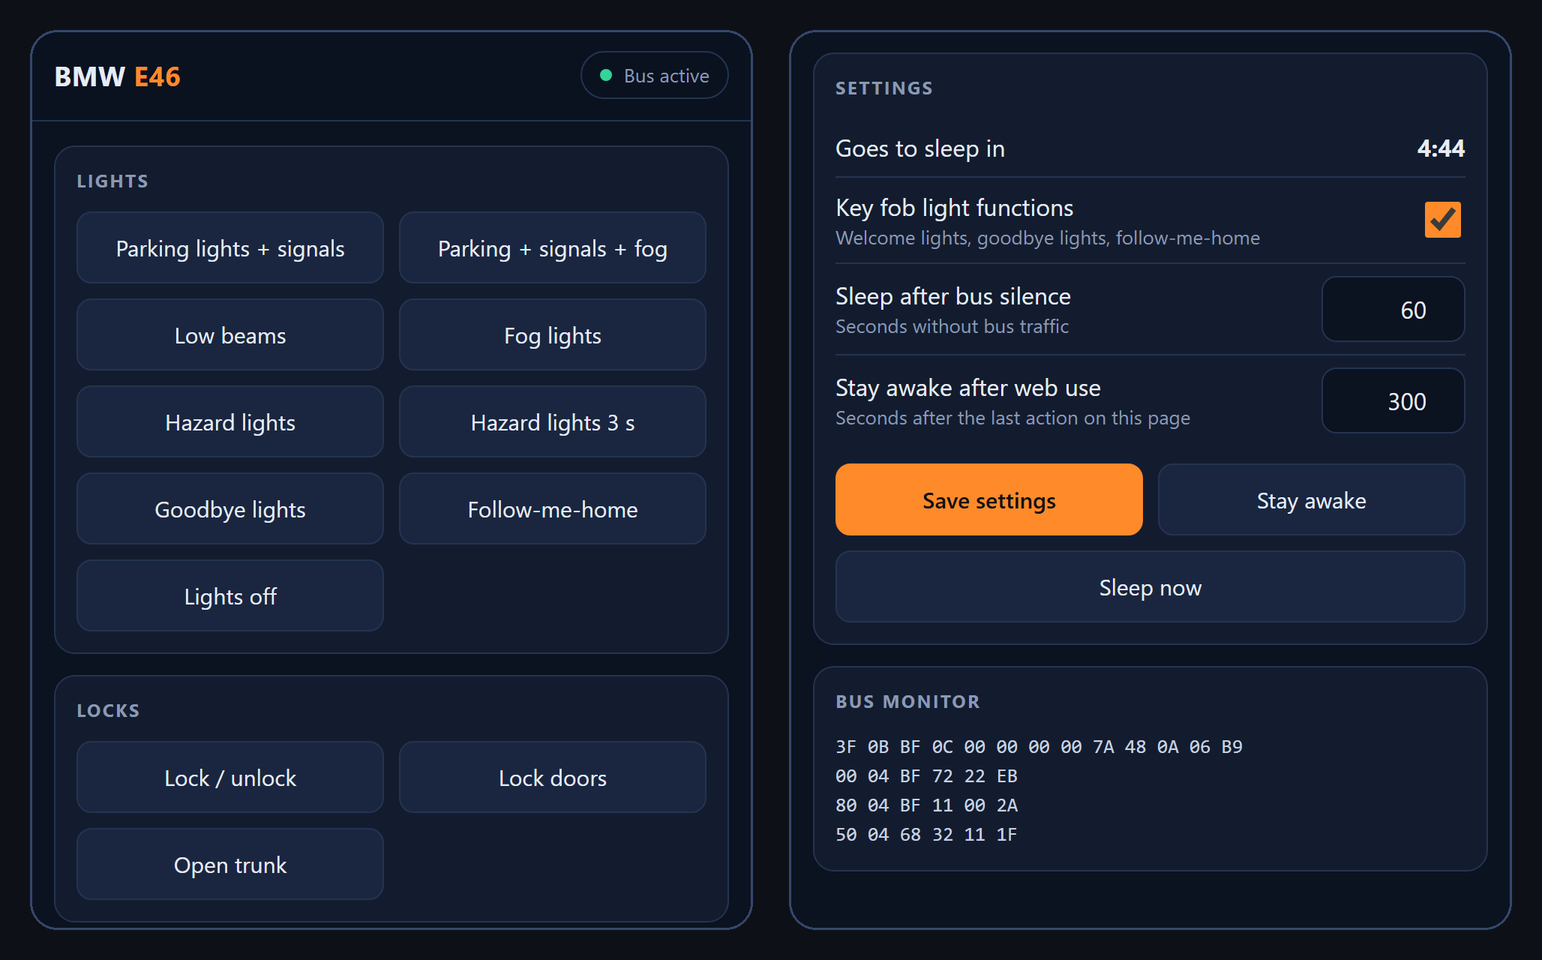
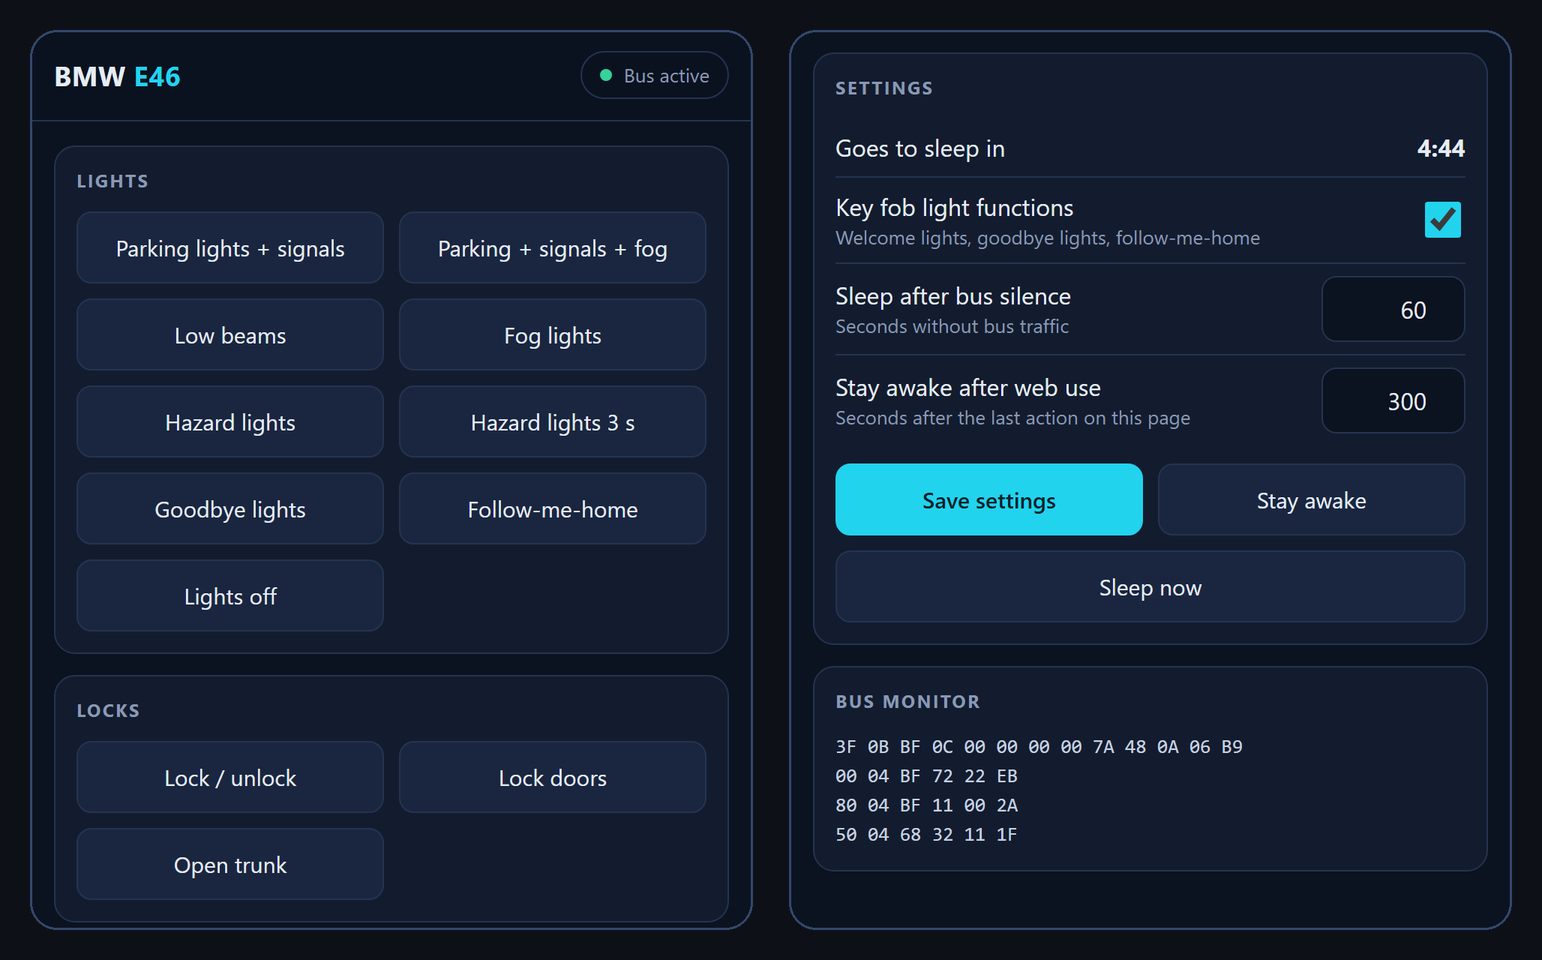
Focus the project on phone control and switch the colours to cyan
- New banner: a phone switching on the car's lights over Wi-Fi
- README leads with the ESP32 web interface; the key fob functions are
  described as the Arduino Nano version
- Web interface accent colour changed to cyan

Changed region(s): [[0.5292, 0.4688, 0.7471, 0.5625], [0.9027, 0.1875, 0.965, 0.25], [0.0623, 0.0625, 0.1245, 0.0938]]

diff --git a/Codes/E46_KBus_ESP32/WebPage.h b/Codes/E46_KBus_ESP32/WebPage.h
@@ -16,7 +16,7 @@ const char WEB_PAGE[] PROGMEM = R"rawliteral(<!doctype html>
 <meta name="theme-color" content="#0b1220">
 <title>BMW E46</title>
 <style>
-:root{--bg:#0b1220;--card:#131c2e;--line:#243450;--text:#e6ecf5;--muted:#8a99b3;--accent:#ff8a2a;--ok:#34d399;--bad:#fb7185}
+:root{--bg:#0b1220;--card:#131c2e;--line:#243450;--text:#e6ecf5;--muted:#8a99b3;--accent:#22d3ee;--ok:#34d399;--bad:#fb7185}
 *{box-sizing:border-box}
 body{margin:0;background:var(--bg);color:var(--text);font:16px/1.4 -apple-system,BlinkMacSystemFont,"Segoe UI",Roboto,Arial,sans-serif;-webkit-tap-highlight-color:transparent}
 header{position:sticky;top:0;z-index:2;display:flex;align-items:center;justify-content:space-between;gap:12px;padding:14px 16px;background:rgba(11,18,32,.94);border-bottom:1px solid var(--line)}
@@ -31,9 +31,9 @@ section{background:var(--card);border:1px solid var(--line);border-radius:14px;p
 h2{margin:0 0 12px;font-size:12px;letter-spacing:.1em;text-transform:uppercase;color:var(--muted)}
 .grid{display:grid;grid-template-columns:repeat(auto-fill,minmax(150px,1fr));gap:10px}
 button{min-height:48px;padding:10px 12px;border:1px solid var(--line);border-radius:10px;background:#1a2640;color:var(--text);font:inherit;font-size:15px;cursor:pointer}
-button:active{background:var(--accent);border-color:var(--accent);color:#111}
+button:active{background:var(--accent);border-color:var(--accent);color:#06222a}
 button:disabled{opacity:.5}
-button.primary{background:var(--accent);border-color:var(--accent);color:#111;font-weight:600}
+button.primary{background:var(--accent);border-color:var(--accent);color:#06222a;font-weight:600}
 .row{display:flex;align-items:center;justify-content:space-between;gap:12px;padding:8px 0}
 .row+.row{border-top:1px solid var(--line)}
 .row small{display:block;color:var(--muted);font-size:13px}

diff --git a/README.md b/README.md
@@ -1,13 +1,13 @@
 <div align="center">
 
-<img src="Pictures/bmw-ibus-kbus-firmware-banner.svg" alt="BMW I-Bus / K-Bus firmware — a car switching its lights on after a key fob press, next to a phone with the web control interface" width="100%">
+<img src="Pictures/bmw-ibus-kbus-firmware-banner.svg" alt="BMW I-Bus / K-Bus firmware — a phone with the web control interface switching on the lights of a car over Wi-Fi" width="100%">
 
-# BMW I-Bus / K-Bus Firmware for Arduino & ESP32
+# BMW I-Bus / K-Bus Firmware for ESP32 & Arduino
 
-**Welcome lights, follow-me-home and phone control for your classic BMW.**<br>
-Ready-to-flash firmware that listens to the remote key and drives the car's lights over the K-Bus — plus an ESP32 version with a web interface for lights, windows, locks and more. Includes transceiver schematics and wiring photos for the BMW E46.
+**Control your classic BMW from your phone.**<br>
+Ready-to-flash ESP32 firmware that puts the lights, windows, locks and trunk of your car on a web page — no app and no internet needed. An Arduino Nano version without Wi-Fi is included too. With transceiver schematics and wiring photos for the BMW E46.
 
-[![Stars](https://img.shields.io/github/stars/muki01/BMW_IBus_KBus?style=flat-square&logo=github&color=ff8a2a)](https://github.com/muki01/BMW_IBus_KBus/stargazers)
+[![Stars](https://img.shields.io/github/stars/muki01/BMW_IBus_KBus?style=flat-square&logo=github&color=22d3ee)](https://github.com/muki01/BMW_IBus_KBus/stargazers)
 [![Forks](https://img.shields.io/github/forks/muki01/BMW_IBus_KBus?style=flat-square&logo=github&color=38bdf8)](https://github.com/muki01/BMW_IBus_KBus/forks)
 [![Issues](https://img.shields.io/github/issues/muki01/BMW_IBus_KBus?style=flat-square)](https://github.com/muki01/BMW_IBus_KBus/issues)
 [![License: MIT](https://img.shields.io/github/license/muki01/BMW_IBus_KBus?style=flat-square)](LICENSE)
@@ -30,14 +30,14 @@ Ready-to-flash firmware that listens to the remote key and drives the car's ligh
 
 ## 🌟 What Is This?
 
-Classic BMWs link their body electronics over a single wire, the **K-Bus**. A small microcontroller on that wire can hear every key-fob press and tell the light module, the body module and the windows what to do.
+Classic BMWs link their body electronics over a single wire, the **K-Bus**. A small microcontroller on that wire can tell the light module, the body module and the windows what to do.
 
-This repository is the **firmware** side of that idea: complete sketches you upload, connect and use.
+This repository is the **firmware** side of that idea: complete sketches you upload, connect and use. The ESP32 version creates its own Wi-Fi network and lets you control the car from a web page on your phone.
 
 | Firmware | Board | What it does |
 | :-- | :-- | :-- |
-| [`E46_KBus_Code`](Codes/E46_KBus_Code) | Arduino Nano / Uno | Welcome lights, goodbye lights and follow-me-home from the remote key. |
-| [`E46_KBus_ESP32`](Codes/E46_KBus_ESP32) | ESP32 | Everything above, plus a Wi-Fi web interface to control the car from your phone. |
+| [`E46_KBus_ESP32`](Codes/E46_KBus_ESP32) | ESP32 | Wi-Fi web interface to control the car from your phone. |
+| [`E46_KBus_Code`](Codes/E46_KBus_Code) | Arduino Nano / Uno | The Nano has no Wi-Fi, so this version works from the remote key: welcome lights, goodbye lights and follow-me-home. |
 | [`Basic_Code`](Codes/Basic_Code) | Arduino Nano / Uno | Bus reader that prints every message — useful to check your wiring. |
 
 > [!IMPORTANT]
@@ -45,22 +45,29 @@ This repository is the **firmware** side of that idea: complete sketches you upl
 
 ```mermaid
 flowchart LR
-    KEY["Remote key"] -->|"lock / unlock"| CAR["BMW K-Bus<br/>12 V · single wire"]
-    CAR <--> TRX["Bus transceiver<br/>TH3122.4 · ELMOS 10026B"]
-    TRX <--> MCU["Arduino Nano<br/>or ESP32"]
-    PHONE["Phone<br/>web interface"] <-->|"Wi-Fi"| MCU
+    PHONE["Phone<br/>web interface"] <-->|"Wi-Fi"| MCU["ESP32"]
+    MCU <--> TRX["Bus transceiver<br/>TH3122.4 · ELMOS 10026B"]
+    TRX <--> CAR["BMW K-Bus<br/>12 V · single wire"]
 ```
 
 ## ✨ Features
 
 | | Function | How it works |
 | :-: | :-- | :-- |
+| 📱 | **Phone control** | Lights, locks, trunk, windows, sunroof, interior light and wipers from any phone browser — no app, no internet. |
+| 🎚 | **Settings on the page** | Change the sleep timers and switch functions on or off; everything is stored on the ESP32. |
+| 🔎 | **Bus monitor** | See the latest bus messages live in the web interface. |
+| 💤 | **Sleep mode** | Powers down when the bus goes quiet and wakes up with the car, so it does not drain the battery. |
+
+The **Arduino Nano** has no Wi-Fi, so its firmware is driven by the remote key instead:
+
+| | Function | How it works |
+| :-: | :-- | :-- |
 | 💡 | **Welcome lights** | Press *unlock* — parking lights and turn signals come on. Press *unlock* again within about 15 seconds to add the fog lights. |
 | 👋 | **Goodbye lights** | Press *lock* — the lights come on for 2 seconds as you walk away. |
 | 🏠 | **Follow-me-home** | With the car locked, press *lock* twice within 4 seconds to keep the headlights on. |
-| 📱 | **Web control** *(ESP32)* | Lights, locks, trunk, windows, sunroof, interior light and wipers from any phone browser — no app, no internet. |
-| 🔎 | **Bus monitor** *(ESP32)* | See the latest bus messages live in the web interface. |
-| 💤 | **Sleep mode** | Powers down when the bus goes quiet and wakes up with the car, so it does not drain the battery. |
+
+The ESP32 firmware includes these three as well; they can be switched off in the web interface.
 
 ## 🚀 Quick Start
 
@@ -78,8 +85,8 @@ git clone https://github.com/muki01/BMW_IBus_KBus.git
 
 **5. Upload.**
 
-- **Arduino Nano / Uno** — open `Codes/E46_KBus_Code`, select your board and upload. Disconnect the transceiver from D0 / D1 while uploading; the bus shares the hardware UART with USB.
 - **ESP32** — open `Codes/E46_KBus_ESP32`, set your own Wi-Fi password in [`Config.h`](Codes/E46_KBus_ESP32/Config.h), select **ESP32 Dev Module** and upload. Then connect your phone to the `BMW-E46` network and open **http://192.168.4.1**
+- **Arduino Nano / Uno** — open `Codes/E46_KBus_Code`, select your board and upload. Disconnect the transceiver from D0 / D1 while uploading; the bus shares the hardware UART with USB.
 
 ## 📱 ESP32 Web Interface
 
@@ -281,8 +288,8 @@ The firmware and message table were written for the **BMW E46**. The K-Bus itsel
 ```text
 BMW_IBus_KBus/
 ├── Codes/
-│   ├── E46_KBus_Code/       Arduino firmware: key fob light functions
-│   ├── E46_KBus_ESP32/      ESP32 firmware: key fob light functions + web interface
+│   ├── E46_KBus_ESP32/      ESP32 firmware: web interface for your phone
+│   ├── E46_KBus_Code/       Arduino firmware: light functions from the remote key
 │   └── Basic_Code/          Bus reader for checking the wiring
 ├── Schematics/              Transceiver circuits
 └── Pictures/                Wiring photo guides
